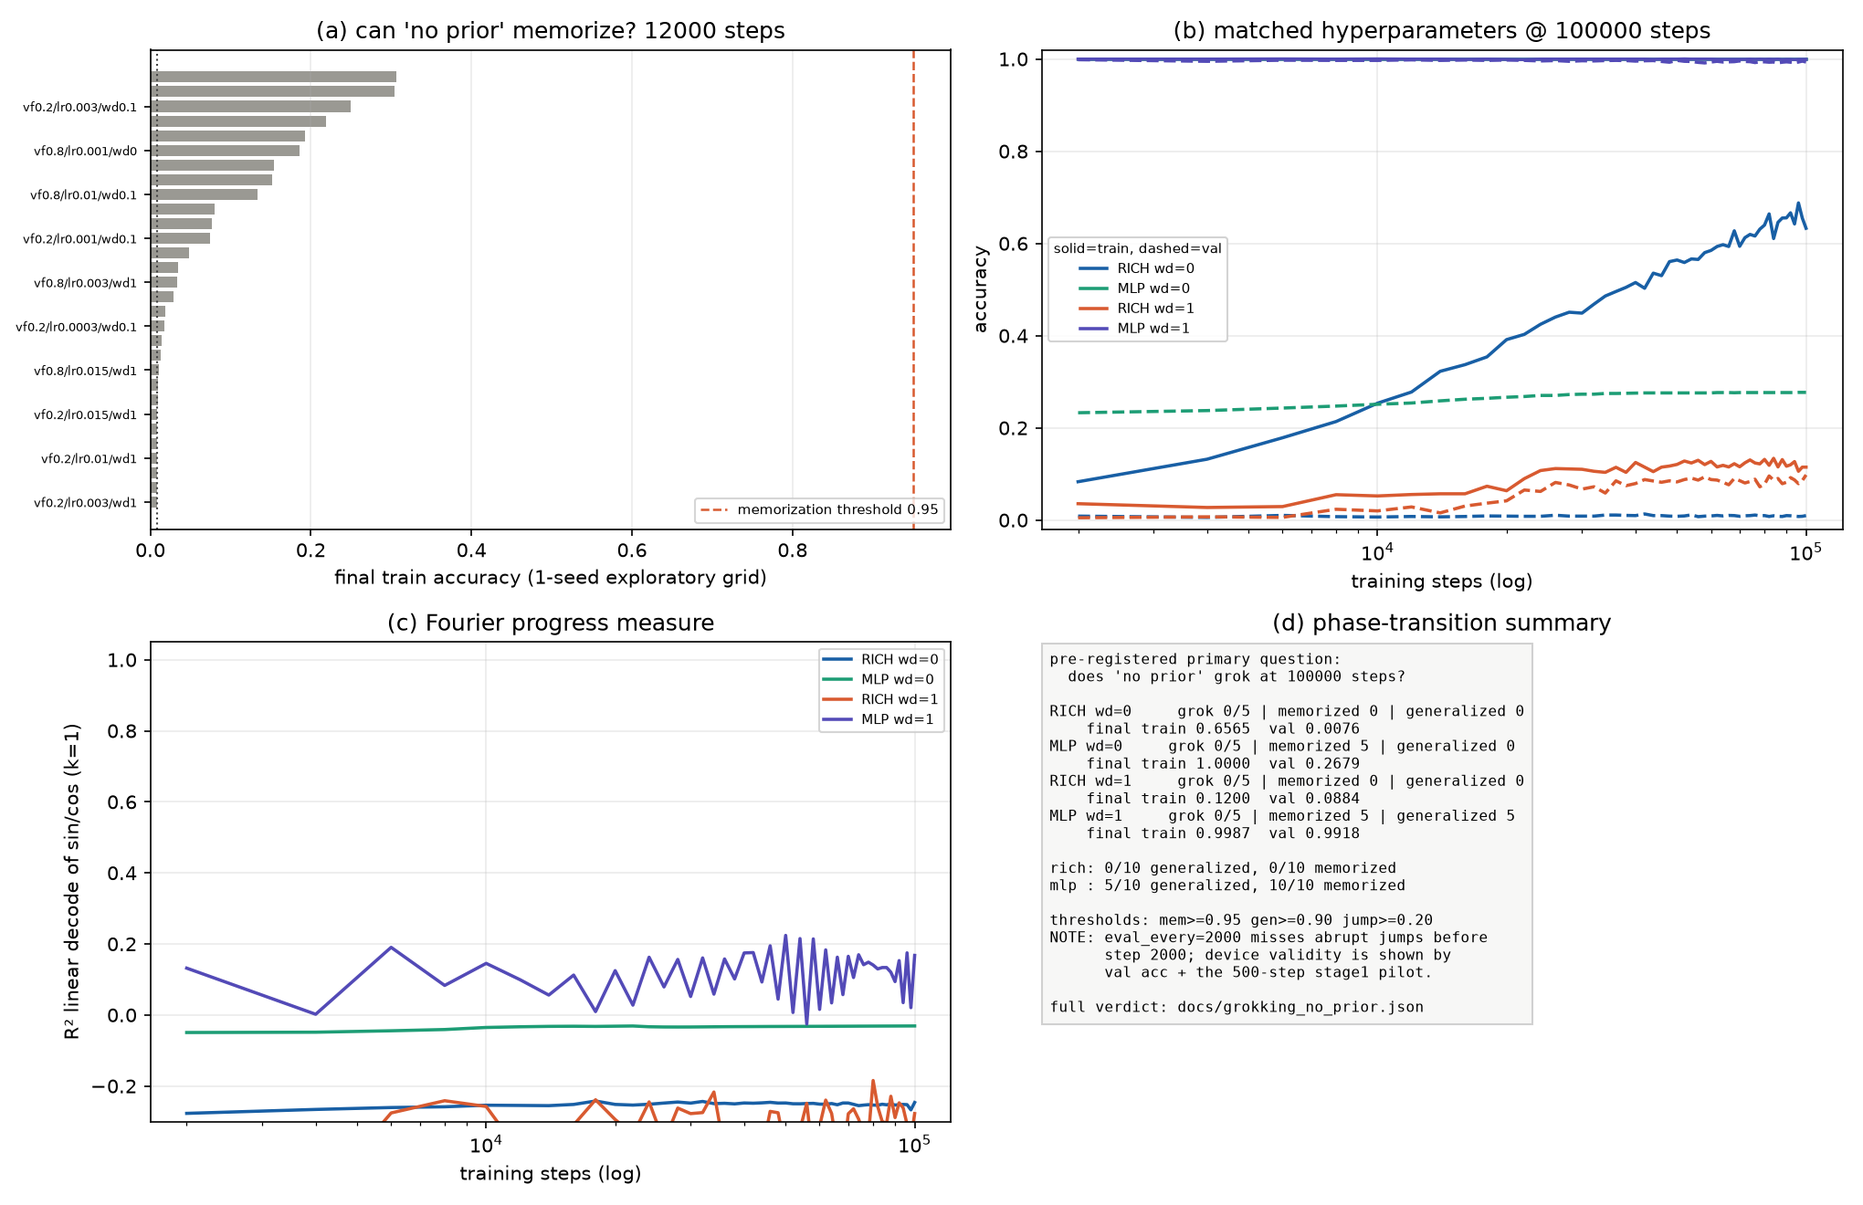
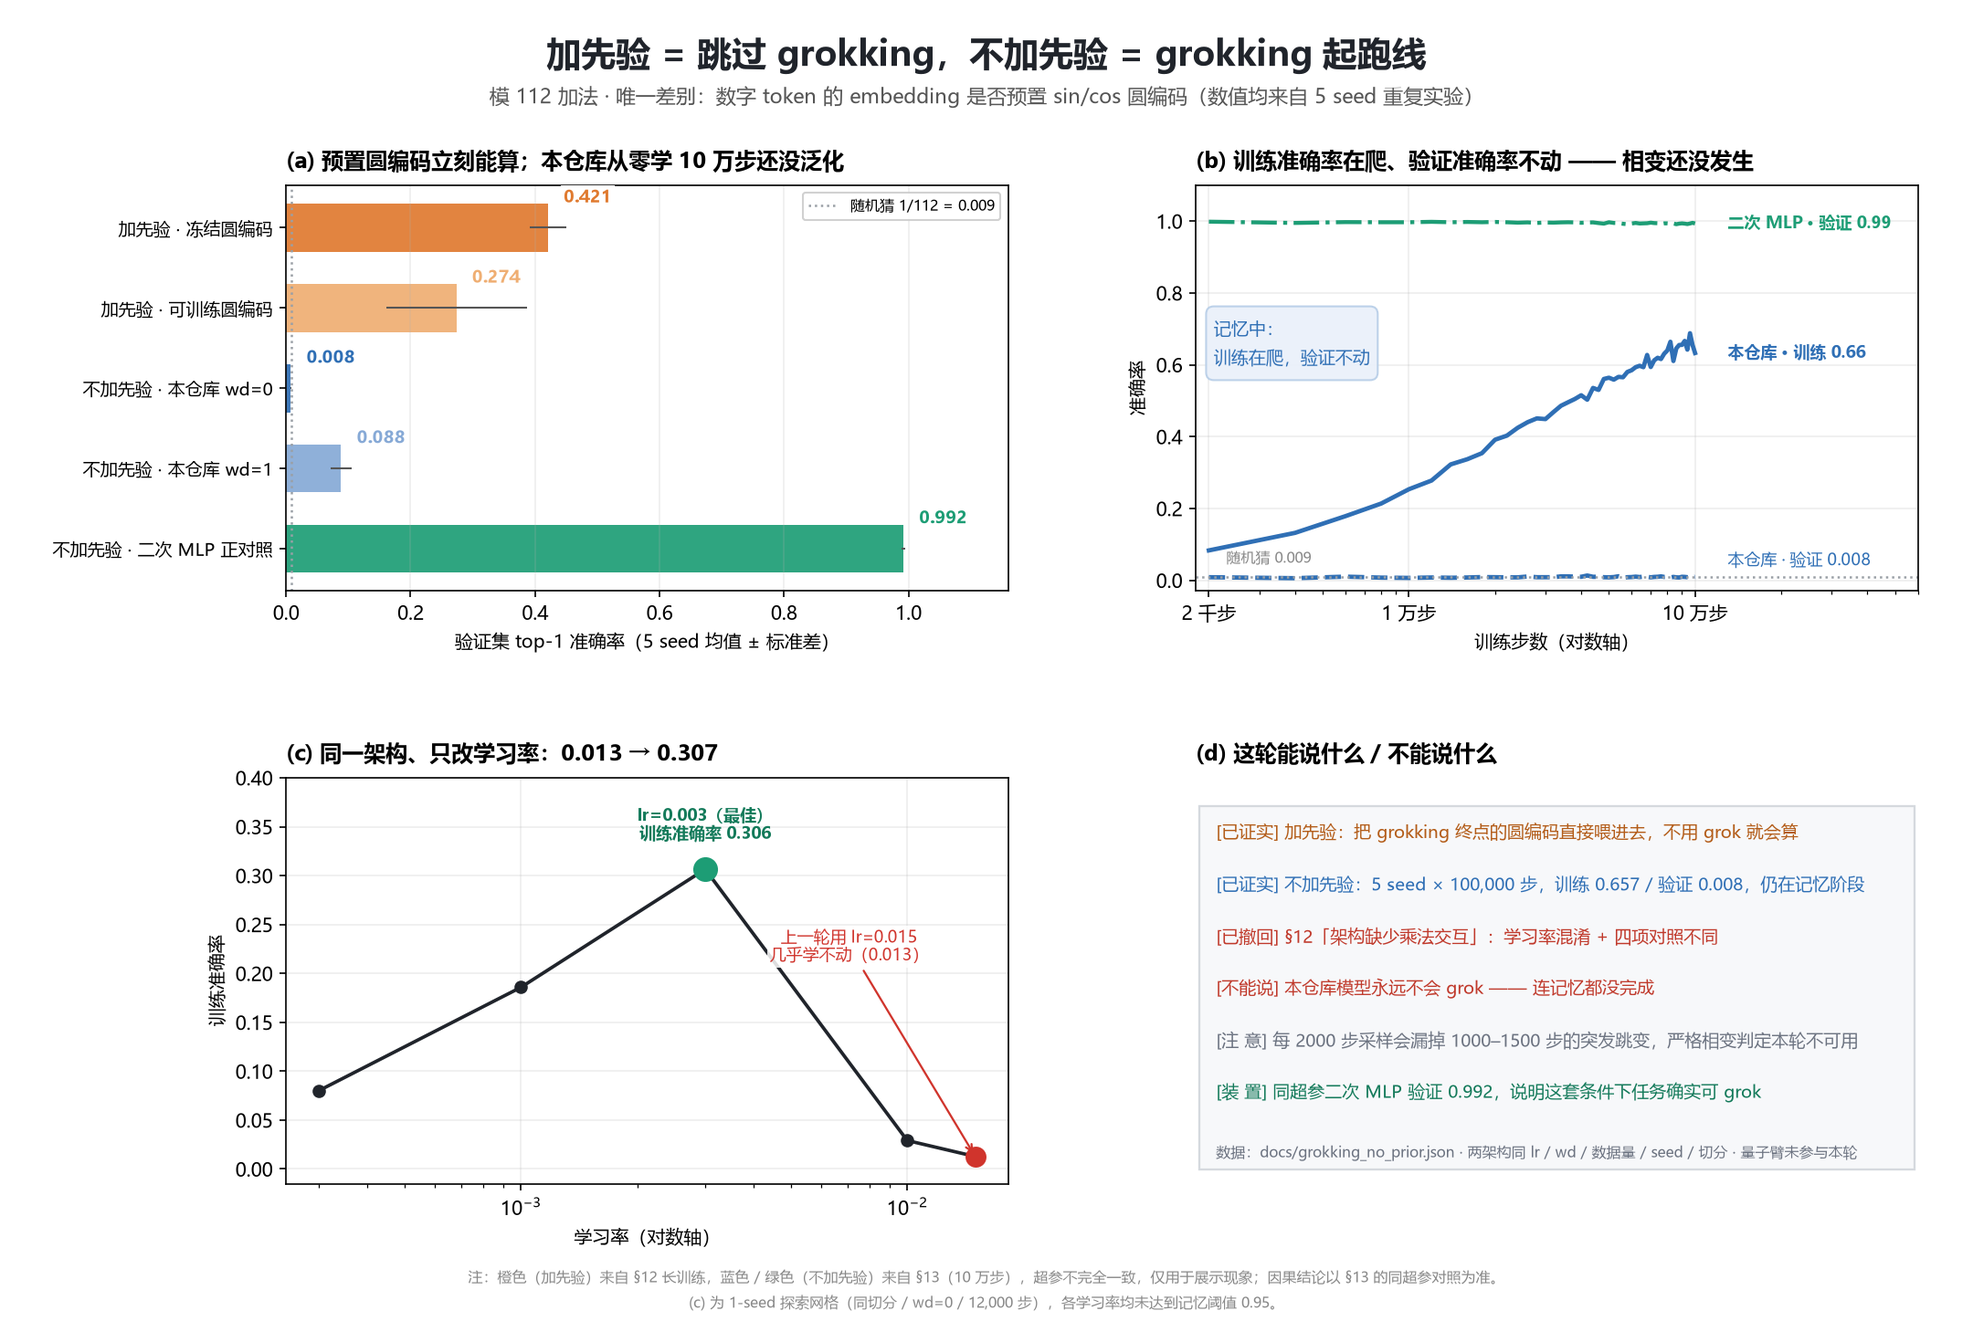
Figures: redesign grokking_no_prior.png as a readable Chinese mainline figure (prior vs no-prior val acc, memorization curve, lr sweep, verdict card); add README figure-reading guide

diff --git a/experiments/grokking_no_prior.py b/experiments/grokking_no_prior.py
@@ -262,121 +262,222 @@ def build_verdict(conf: dict, steps: int, eval_every: int) -> tuple[str, dict]:
 
 
 def _figure(report: dict, path: Path) -> None:
+    """「加先验 vs 不加先验」主线图（全中文、结论式标题）。
+
+    2026-11-16 重做：上一版四个面板各说各话、缩写不解释、(d) 是一整块
+    等宽英文文字墙，而且**完全没有画出「加先验」的对照**，被用户指出看不懂。
+    现在四个面板围绕同一个问题：预置 sin/cos 圆编码是否等于跳过 grokking。
+    """
+    from matplotlib.patches import Rectangle
+
     pilot = report["stage1"]["per_condition"]
     conf = report["stage2"]["per_condition"]
-    fig, axes = plt.subplots(2, 2, figsize=(13.6, 8.8))
+    s1_steps = report["stage1"]["steps"]
+    s2_steps = report["stage2"]["steps"]
 
-    # (a) Stage 1 网格：最终 train acc（是否进记忆阶段）
-    ax = axes[0, 0]
-    rich = [(n, v) for n, v in pilot.items() if v["arch"] == "rich"]
-    rich.sort(key=lambda kv: kv[1]["final"]["train_accuracy"])
-    names = [n.replace("RICH/", "") for n, _ in rich]
-    vals = [v["final"]["train_accuracy"] for _, v in rich]
-    ys = np.arange(len(names))
-    ax.barh(ys, vals, color=["#1D9D75" if v >= PHASE_MEM_ACC else "#888780"
-                             for v in vals], alpha=0.85, height=0.75)
-    ax.axvline(PHASE_MEM_ACC, color="#D85A30", ls="--", lw=1.2,
-               label=f"memorization threshold {PHASE_MEM_ACC}")
-    ax.axvline(RANDOM_BASELINE_ACCURACY, color="#444444", ls=":", lw=1)
-    ax.set_yticks(ys[::3])
-    ax.set_yticklabels([names[i] for i in ys[::3]], fontsize=6)
-    ax.set_xlabel("final train accuracy (1-seed exploratory grid)")
-    ax.set_title(f"(a) can 'no prior' memorize? {report['stage1']['steps']} steps")
-    ax.legend(fontsize=7, loc="lower right")
-    ax.grid(alpha=0.25, axis="x")
+    # §12 的「加先验」两组，把用户真正问的对照画出来；缺归档时降级
+    prior: dict[str, tuple[float, float]] = {}
+    g12 = DOCS / "grokking_metrics.json"
+    if g12.exists():
+        try:
+            g = json.loads(g12.read_text(encoding="utf-8"))
+            for key in ("frozen", "trainable_circular"):
+                a = g["confirm"]["per_condition"][key]["aggregate"]
+                prior[key] = (float(a["val_accuracy_mean"]),
+                              float(a.get("val_accuracy_std", 0.0)))
+        except (KeyError, ValueError):
+            prior = {}
 
-    # 4 个条件（2 架构 x 2 wd）各自一个颜色；实线=train、虚线=val
-    CMAP = {"RICH|0": "#185FA5", "RICH|1": "#D85A30",
-            "MLP|0": "#1D9D75", "MLP|1": "#534AB7"}
+    def pick(prefix: str, wd: float | None = None) -> dict | None:
+        for k, v in conf.items():
+            if k.startswith(prefix) and (wd is None
+                                         or abs(v["cond"]["wd"] - wd) < 1e-9):
+                return v
+        return None
 
-    def _label(key: str, d: dict) -> tuple[str, str]:
-        tag = "RICH" if key.startswith("RICH") else "MLP"
-        wd = d["cond"]["wd"]
-        ckey = f"{tag}|{int(wd > 0)}"
-        return f"{tag} wd={wd:g}", CMAP.get(ckey, "#888780")
+    rich0 = pick("RICH", 0.0) or pick("RICH")
+    rich1 = pick("RICH", 1.0)
+    mlp1 = pick("MLP", 1.0) or pick("MLP")
 
-    # (b) Stage 2 曲线：两架构同超参、同步数
-    ax = axes[0, 1]
-    for key, d in conf.items():
-        if not d["curves"]:
-            continue
-        curves = d["curves"]
-        steps = [c["step"] for c in curves[0]]
-        lbl, col = _label(key, d)
-        for metric, style in (("train_acc", "-"), ("val_acc", "--")):
-            arr = np.array([[c[metric] for c in cu] for cu in curves])
-            ax.plot(steps, arr.mean(0), style, color=col, lw=1.7,
-                    label=lbl if metric == "train_acc" else None)
-    ax.set_xscale("log")
-    ax.set_ylim(-0.02, 1.02)
-    ax.set_xlabel("training steps (log)")
-    ax.set_ylabel("accuracy")
-    ax.set_title(f"(b) matched hyperparameters @ {report['stage2']['steps']} steps")
-    ax.legend(fontsize=7, loc="center left", ncol=1, framealpha=0.85,
-              title="solid=train, dashed=val", title_fontsize=7)
-    ax.grid(alpha=0.25)
+    C_PRIOR, C_PRIOR_L = "#E07A2F", "#EFAE72"
+    C_RICH, C_RICH_L = "#2F6FB5", "#86A9D6"
+    C_CTRL, C_INK, C_MUTE = "#1D9D75", "#20242B", "#6B7280"
 
-    # (c) 傅里叶 progress measure
-    ax = axes[1, 0]
-    for key, d in conf.items():
-        if not d["curves"]:
-            continue
-        curves = d["curves"]
-        steps = [c["step"] for c in curves[0]]
-        arr = np.array([[c["r2_k1"] for c in cu] for cu in curves])
-        lbl, col = _label(key, d)
-        ax.plot(steps, arr.mean(0), color=col, lw=1.7, label=lbl)
-    ax.set_xscale("log")
-    ax.set_ylim(-0.3, 1.05)
-    ax.set_xlabel("training steps (log)")
-    ax.set_ylabel("R² linear decode of sin/cos (k=1)")
-    ax.set_title("(c) Fourier progress measure")
-    ax.legend(fontsize=7, loc="upper right")
-    ax.grid(alpha=0.25)
+    def mean_curve(d: dict, key: str) -> tuple[list[int], np.ndarray]:
+        cu = d["curves"]
+        return ([c["step"] for c in cu[0]],
+                np.asarray([[c[key] for c in x] for x in cu],
+                           dtype=float).mean(0))
 
-    # (d) 相变判定摘要
-    ax = axes[1, 1]
-    ax.axis("off")
-    # 纯 ASCII：DejaVu Sans Mono 无中文字形，写中文会出方框并刷警告。
-    lines = ["pre-registered primary question:",
-             "  does 'no prior' grok at %d steps?" % report["stage2"]["steps"],
-             ""]
-    for key, d in conf.items():
-        a = d["aggregate"]
-        n = len(d["curves"])
-        tag = key.split("/")[0]
-        wd = d["cond"]["wd"]
-        lines += [
-            "%s wd=%-4g  grok %d/%d | memorized %d | generalized %d" %
-            (tag, wd, a["n_grokking_seeds"], n, a["n_memorized_seeds"],
-             a["n_generalized_seeds"]),
-            "    final train %.4f  val %.4f" %
-            (a["train_accuracy_mean"], a["val_accuracy_mean"]),
+    with plt.rc_context({"font.sans-serif": ["Microsoft YaHei", "SimHei",
+                                             "Noto Sans SC", "DejaVu Sans"],
+                         "axes.unicode_minus": False}):
+        fig, axes = plt.subplots(2, 2, figsize=(14.4, 9.8))
+        fig.subplots_adjust(left=0.145, right=0.972, top=0.862, bottom=0.118,
+                            hspace=0.46, wspace=0.26)
+        fig.suptitle("加先验 = 跳过 grokking，不加先验 = grokking 起跑线",
+                     fontsize=18, fontweight="bold", color=C_INK, y=0.972)
+        fig.text(0.5, 0.923,
+                 "模 112 加法 · 唯一差别：数字 token 的 embedding 是否预置 sin/cos 圆编码"
+                 "（数值均来自 5 seed 重复实验）",
+                 ha="center", fontsize=10.5, color="#555555")
+
+        # ---------- (a) 核心对照：验证准确率 ----------
+        ax = axes[0, 0]
+        rows: list[tuple[str, float, float, str, str]] = []
+        if prior:
+            rows += [
+                ("加先验 · 冻结圆编码", *prior["frozen"], "§12 长训练", C_PRIOR),
+                ("加先验 · 可训练圆编码", *prior["trainable_circular"],
+                 "§12 长训练", C_PRIOR_L),
+            ]
+        for label, d, col in (("不加先验 · 本仓库 wd=0", rich0, C_RICH),
+                              ("不加先验 · 本仓库 wd=1", rich1, C_RICH_L),
+                              ("不加先验 · 二次 MLP 正对照", mlp1, C_CTRL)):
+            if d is None:
+                continue
+            a = d["aggregate"]
+            rows.append((label, float(a["val_accuracy_mean"]),
+                         float(a.get("val_accuracy_std", 0.0)),
+                         f"§13 · {s2_steps:,} 步", col))
+        ys = np.arange(len(rows))[::-1]
+        for y, (label, mean, std, _tag, col) in zip(ys, rows):
+            ax.barh(y, mean, xerr=std, color=col, alpha=0.92, height=0.6,
+                    error_kw=dict(ecolor="#555555", capsize=0, lw=1))
+            # 数字抬到柱中线上方：误差棒横线正好在中线上，同高会被读成负号
+            ax.text(mean + 0.025, y + 0.26, f"{mean:.3f}", va="bottom",
+                    fontsize=9.2, fontweight="bold", color=col,
+                    bbox=dict(fc="white", ec="white", alpha=1.0, pad=0.8))
+        ax.axvline(RANDOM_BASELINE_ACCURACY, color="#9AA0A6", ls=":", lw=1.2,
+                   label=f"随机猜 1/112 = {RANDOM_BASELINE_ACCURACY:.3f}")
+        ax.set_yticks(ys)
+        ax.set_yticklabels([r[0] for r in rows], fontsize=9)
+        ax.set_xlim(0, 1.16)
+        ax.set_xlabel("验证集 top-1 准确率（5 seed 均值 ± 标准差）", fontsize=9.5)
+        ax.set_title("(a) 预置圆编码立刻能算；本仓库从零学 10 万步还没泛化",
+                     fontsize=11.5, fontweight="bold", loc="left", pad=9)
+        ax.legend(fontsize=7.8, loc="upper right", framealpha=0.9)
+        ax.grid(alpha=0.22, axis="x")
+
+        # ---------- (b) 不加先验的学习曲线 ----------
+        ax = axes[0, 1]
+        # 右侧留白直接标注每条线，不用图例（图例会压住贴在 0 附近的验证线）
+        ax.set_xscale("log")
+        ax.set_xlim(1800, 600000)
+        ax.set_ylim(-0.03, 1.10)
+        ax.set_xticks([2000, 10000, 100000])
+        ax.set_xticklabels(["2 千步", "1 万步", "10 万步"])
+        if rich0 is not None and rich0["curves"]:
+            st, rt = mean_curve(rich0, "train_acc")
+            _, rv = mean_curve(rich0, "val_acc")
+            a0 = rich0["aggregate"]  # 用全量评估口径，与 (a)(d) 的数字一致
+            ax.plot(st, rt, color=C_RICH, lw=2.3)
+            ax.plot(st, rv, color=C_RICH, lw=2.3, ls="--")
+            ax.text(1.3e5, rt[-1], f"本仓库 · 训练 {a0['train_accuracy_mean']:.2f}",
+                    va="center", fontsize=8.6, color=C_RICH, fontweight="bold")
+            ax.text(1.3e5, 0.055, f"本仓库 · 验证 {a0['val_accuracy_mean']:.3f}",
+                    va="center", fontsize=8.6, color=C_RICH)
+        if mlp1 is not None and mlp1["curves"]:
+            st, mv = mean_curve(mlp1, "val_acc")
+            a1 = mlp1["aggregate"]
+            ax.plot(st, mv, color=C_CTRL, lw=2.1, ls="-.")
+            ax.text(1.3e5, mv[-1], f"二次 MLP · 验证 {a1['val_accuracy_mean']:.2f}",
+                    va="center", fontsize=8.6, color=C_CTRL, fontweight="bold")
+        ax.axhline(RANDOM_BASELINE_ACCURACY, color="#9AA0A6", ls=":", lw=1.2)
+        ax.text(2300, RANDOM_BASELINE_ACCURACY + 0.04, "随机猜 0.009",
+                fontsize=7.5, color="#888888")
+        ax.set_xlabel("训练步数（对数轴）", fontsize=9.5)
+        ax.set_ylabel("准确率", fontsize=9.5)
+        ax.set_title("(b) 训练准确率在爬、验证准确率不动 —— 相变还没发生",
+                     fontsize=11.5, fontweight="bold", loc="left", pad=9)
+        ax.text(0.025, 0.56, "记忆中：\n训练在爬，验证不动",
+                transform=ax.transAxes, fontsize=9, color=C_RICH,
+                linespacing=1.6,
+                bbox=dict(fc="#EAF1FA", ec="#B9CFE8", alpha=0.95,
+                          boxstyle="round,pad=0.45"))
+        ax.grid(alpha=0.22)
+
+        # ---------- (c) 学习率扫描：上一轮「架构瓶颈」为何是误判 ----------
+        ax = axes[1, 0]
+        scan = sorted((float(v["lr"]), float(v["final"]["train_accuracy"]))
+                      for v in pilot.values()
+                      if v["arch"] == "rich"
+                      and abs(float(v["val_fraction"]) - 0.8) < 1e-9
+                      and abs(float(v["wd"])) < 1e-9)
+        if scan:
+            xs = [s[0] for s in scan]
+            vs = [s[1] for s in scan]
+            ax.plot(xs, vs, "-o", color=C_INK, lw=1.8, ms=6, zorder=2)
+            bi = int(np.argmax(vs))
+            ax.plot([xs[bi]], [vs[bi]], "o", color=C_CTRL, ms=12, zorder=3)
+            ax.annotate(f"lr={xs[bi]:g}（最佳）\n训练准确率 {vs[bi]:.3f}",
+                        (xs[bi], vs[bi]), xytext=(0, 16),
+                        textcoords="offset points", ha="center", fontsize=8.6,
+                        color="#137A5A", fontweight="bold")
+            rounded = [round(x, 6) for x in xs]
+            if 0.015 in rounded:
+                j = rounded.index(0.015)
+                ax.plot([xs[j]], [vs[j]], "o", color="#D0342C", ms=10, zorder=3)
+                ax.annotate("上一轮用 lr=0.015\n几乎学不动（0.013）",
+                            xy=(xs[j], vs[j]), xytext=(0.78, 0.55),
+                            textcoords="axes fraction", ha="center",
+                            fontsize=8.5, color="#D0342C",
+                            bbox=dict(fc="white", ec="none", alpha=0.85, pad=1.5),
+                            arrowprops=dict(arrowstyle="->", color="#D0342C",
+                                            lw=1.1))
+        ax.set_xscale("log")
+        ax.set_ylim(-0.015, 0.40)
+        ax.set_xlabel("学习率（对数轴）", fontsize=9.5)
+        ax.set_ylabel("训练准确率", fontsize=9.5)
+        ax.set_title("(c) 同一架构、只改学习率：0.013 → 0.307",
+                     fontsize=11.5, fontweight="bold", loc="left", pad=9)
+        ax.grid(alpha=0.22)
+
+        # ---------- (d) 结论卡 ----------
+        ax = axes[1, 1]
+        ax.axis("off")
+        ax.set_title("(d) 这轮能说什么 / 不能说什么",
+                     fontsize=11.5, fontweight="bold", loc="left", pad=9)
+        ax.add_patch(Rectangle((0.005, 0.035), 0.99, 0.895,
+                               transform=ax.transAxes,
+                               facecolor="#F7F8FA", edgecolor="#D5D9DE",
+                               lw=1.1))
+        r0 = rich0["aggregate"] if rich0 else {}
+        m1 = mlp1["aggregate"] if mlp1 else {}
+        cards = [
+            ("[已证实] 加先验：把 grokking 终点的圆编码直接喂进去，不用 grok 就会算",
+             "#B35C18"),
+            (f"[已证实] 不加先验：5 seed × {s2_steps:,} 步，训练 "
+             f"{r0.get('train_accuracy_mean', 0):.3f} / 验证 "
+             f"{r0.get('val_accuracy_mean', 0):.3f}，仍在记忆阶段", C_RICH),
+            ("[已撤回] §12「架构缺少乘法交互」：学习率混淆 + 四项对照不同", "#C0392B"),
+            ("[不能说] 本仓库模型永远不会 grok —— 连记忆都没完成", "#C0392B"),
+            ("[注 意] 每 2000 步采样会漏掉 1000–1500 步的突发跳变，"
+             "严格相变判定本轮不可用", C_MUTE),
+            (f"[装 置] 同超参二次 MLP 验证 {m1.get('val_accuracy_mean', 0):.3f}，"
+             "说明这套条件下任务确实可 grok", "#137A5A"),
         ]
-    s = report.get("stage2", {}).get("summary")
-    if s:
-        r, m = s["rich"], s["mlp"]
-        lines += ["", "rich: %d/%d generalized, %d/%d memorized" %
-                  (r["gen"], r["runs"], r["mem"], r["runs"]),
-                  "mlp : %d/%d generalized, %d/%d memorized" %
-                  (m["gen"], m["runs"], m["mem"], m["runs"])]
-    lines += ["", "thresholds: mem>=%.2f gen>=%.2f jump>=%.2f" %
-              (PHASE_MEM_ACC, PHASE_GEN_ACC,
-               report["stage2"]["phase_thresholds"]["jump"]),
-              "NOTE: eval_every=%d misses abrupt jumps before" %
-              report["stage2"]["eval_every"],
-              "      step 2000; device validity is shown by",
-              "      val acc + the 500-step stage1 pilot.", "",
-              "full verdict: docs/grokking_no_prior.json"]
-    ax.text(0.01, 0.98, "\n".join(lines), transform=ax.transAxes,
-            va="top", ha="left", fontsize=7.6, family="monospace",
-            bbox=dict(fc="#f7f7f5", ec="#cccccc", alpha=0.9))
-    ax.set_title("(d) phase-transition summary")
+        for i, (txt, col) in enumerate(cards):
+            ax.text(0.028, 0.865 - i * 0.128, txt, transform=ax.transAxes,
+                    fontsize=9.0, color=col, va="center", linespacing=1.5)
+        ax.text(0.028, 0.075,
+                "数据：docs/grokking_no_prior.json · 两架构同 lr / wd / 数据量 / "
+                "seed / 切分 · 量子臂未参与本轮",
+                transform=ax.transAxes, fontsize=7.5, color=C_MUTE, va="center")
 
-    fig.tight_layout()
-    path.parent.mkdir(parents=True, exist_ok=True)
-    fig.savefig(path, dpi=150)
-    plt.close(fig)
+        # 加先验两组来自 §12（不同 lr / 步数），只用于展示现象；
+        # 结论性比较始终是 §13 内同超参的 wd 对照，写清楚避免误读。
+        fig.text(0.5, 0.020,
+                 "注：橙色（加先验）来自 §12 长训练，蓝色 / 绿色（不加先验）来自 §13（10 万步），"
+                 "超参不完全一致，仅用于展示现象；因果结论以 §13 的同超参对照为准。\n"
+                 f"(c) 为 1-seed 探索网格（同切分 / wd=0 / {s1_steps:,} 步），"
+                 "各学习率均未达到记忆阈值 0.95。",
+                 ha="center", va="bottom", fontsize=7.8, color="#888888",
+                 linespacing=1.6)
+
+        path.parent.mkdir(parents=True, exist_ok=True)
+        fig.savefig(path, dpi=150)
+        plt.close(fig)
 
 
 def main() -> None:

diff --git a/README.md b/README.md
@@ -125,7 +125,15 @@ train acc `0.0288`），两架构的 lr / wd / 训练数据占比 / 步数四项
 （$5\ \text{lr} \times 3\ \text{wd} \times 2\ \text{vf} \times 2$ 架构 × 1.2 万步），
 再挑两组共享 `lr=0.003 / vf=0.8`、只差 `wd` 的条件做 5 seed × $10^5$ 步确认：
 
-![不加先验 grokking 修正实验：优化网格、同超参曲线、傅里叶 progress 与相变摘要](docs/figures/grokking_no_prior.png)
+![加先验 vs 不加先验：验证准确率对比、10 万步学习曲线、学习率扫描与结论卡](docs/figures/grokking_no_prior.png)
+
+> **图怎么读**：(a) 橙色＝加先验、蓝色＝不加先验、绿色＝装置校验正对照，看验证
+> 集准确率；(b) 不加先验组训练准确率一路爬到 `0.66`、验证准确率贴着 `0.008`
+> 不动，即 grokking 的「记忆中、尚未泛化」；(c) 同一架构只改学习率，
+> `0.015` 几乎学不动（`0.013`）、`0.003` 最好（`0.307`），解释上一轮为何把
+> 优化器问题误判成架构缺陷；(d) 是「能说什么 / 不能说什么」的结论卡。
+> 橙色两组来自第 12 节、蓝绿来自第 13 节，超参不完全一致，(a) 只作现象对照；
+> 因果结论一律以第 13 节的同超参对照为准。
 
 | 同超参条件 | train acc | val acc | 完成记忆 | 完成泛化 |
 | --- | --- | --- | --- | --- |
